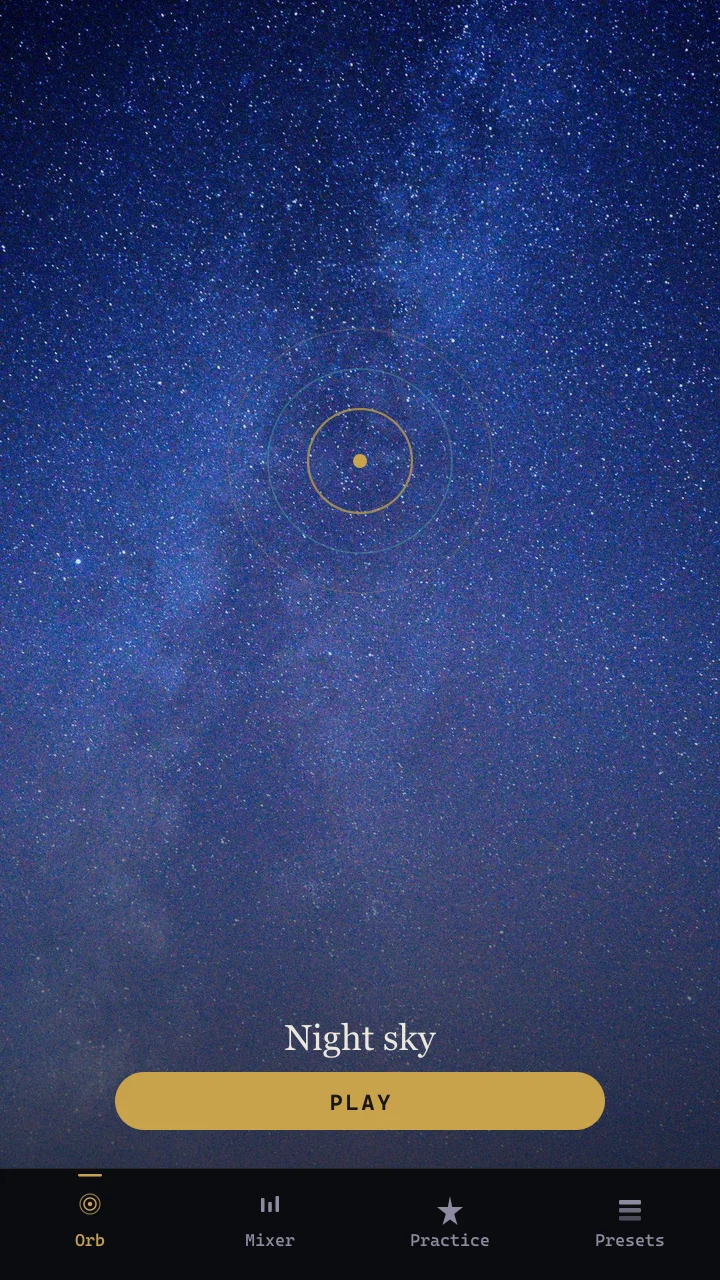
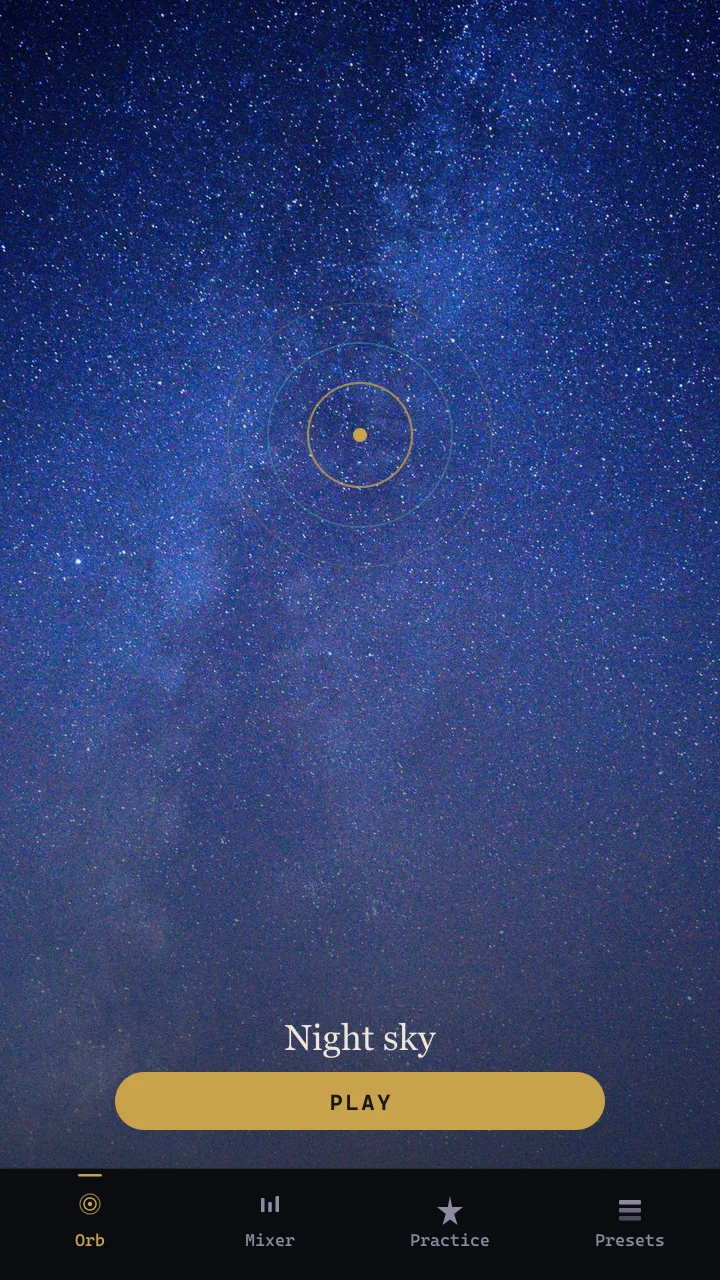
Fill phone mockups edge-to-edge by cropping and covering screens.
Taller phone glass ratio plus slight image scale removes letterboxing.

Changed region(s): [[0.4278, 0.2812, 0.5806, 0.4062], [0.6111, 0.3125, 0.6417, 0.375], [0.3667, 0.3125, 0.3972, 0.3438]]

diff --git a/scripts/stamp-app-tabs.js b/scripts/stamp-app-tabs.js
@@ -56,27 +56,37 @@ async function barPng(active) {
   return sharp(Buffer.from(tabBarSvg(active))).png().toBuffer();
 }
 
+/** Crop empty margins then force exact phone fill. */
+async function fillFrame(inputPath) {
+  const meta = await sharp(inputPath).metadata();
+  const cropTop = Math.round(meta.height * 0.035);
+  const cropBot = Math.round(meta.height * 0.03);
+  const cropSide = Math.round(meta.width * 0.01);
+  return sharp(inputPath)
+    .extract({
+      left: cropSide,
+      top: cropTop,
+      width: meta.width - cropSide * 2,
+      height: meta.height - cropTop - cropBot,
+    })
+    .resize(W, H - TAB_H, { fit: "cover", position: "centre" })
+    .extend({
+      top: 0,
+      bottom: TAB_H,
+      left: 0,
+      right: 0,
+      background: { r: 11, g: 12, b: 16, alpha: 1 },
+    })
+    .toBuffer();
+}
+
 async function stampScreen(srcName, outName, activeTab) {
   const src = path.join(ASSETS, srcName);
+  const filled = await fillFrame(src);
   const bar = await barPng(activeTab);
-  const body = await sharp(src)
-    .resize(W, H, { fit: "cover", position: "centre" })
-    .composite([
-      {
-        input: {
-          create: {
-            width: W,
-            height: TAB_H + 6,
-            channels: 4,
-            background: { r: 11, g: 12, b: 16, alpha: 1 },
-          },
-        },
-        top: H - TAB_H - 6,
-        left: 0,
-      },
-      { input: bar, top: H - TAB_H, left: 0 },
-    ])
-    .webp({ quality: 85 })
+  const body = await sharp(filled)
+    .composite([{ input: bar, top: H - TAB_H, left: 0 }])
+    .webp({ quality: 86 })
     .toBuffer();
   fs.mkdirSync(OUT, { recursive: true });
   fs.mkdirSync(MIRROR, { recursive: true });
@@ -92,16 +102,16 @@ async function stampAmbient(name, activeTab = 0) {
 <svg width="${W}" height="${H}" xmlns="http://www.w3.org/2000/svg">
   <defs>
     <linearGradient id="g" x1="0" y1="0" x2="0" y2="1">
-      <stop offset="0%" stop-color="#08080E" stop-opacity="0.12"/>
-      <stop offset="50%" stop-color="#08080E" stop-opacity="0.08"/>
-      <stop offset="100%" stop-color="#08080E" stop-opacity="0.82"/>
+      <stop offset="0%" stop-color="#08080E" stop-opacity="0.08"/>
+      <stop offset="45%" stop-color="#08080E" stop-opacity="0.05"/>
+      <stop offset="100%" stop-color="#08080E" stop-opacity="0.78"/>
     </linearGradient>
   </defs>
   <rect width="${W}" height="${H}" fill="url(#g)"/>
-  <circle cx="${W / 2}" cy="${Math.round(H * 0.36)}" r="52" fill="none" stroke="#C9A24B" stroke-width="2.2" opacity="0.75"/>
-  <circle cx="${W / 2}" cy="${Math.round(H * 0.36)}" r="92" fill="none" stroke="#4FB3A9" stroke-width="1.6" opacity="0.4"/>
-  <circle cx="${W / 2}" cy="${Math.round(H * 0.36)}" r="132" fill="none" stroke="#C9A24B" stroke-width="1.2" opacity="0.25"/>
-  <circle cx="${W / 2}" cy="${Math.round(H * 0.36)}" r="7" fill="#C9A24B"/>
+  <circle cx="${W / 2}" cy="${Math.round(H * 0.34)}" r="52" fill="none" stroke="#C9A24B" stroke-width="2.2" opacity="0.75"/>
+  <circle cx="${W / 2}" cy="${Math.round(H * 0.34)}" r="92" fill="none" stroke="#4FB3A9" stroke-width="1.6" opacity="0.4"/>
+  <circle cx="${W / 2}" cy="${Math.round(H * 0.34)}" r="132" fill="none" stroke="#C9A24B" stroke-width="1.2" opacity="0.25"/>
+  <circle cx="${W / 2}" cy="${Math.round(H * 0.34)}" r="7" fill="#C9A24B"/>
   <text x="${W / 2}" y="${H - TAB_H - 118}" text-anchor="middle" font-family="Georgia, serif" font-size="36" fill="#EDE7D9">${label}</text>
   <rect x="${Math.round(W * 0.16)}" y="${H - TAB_H - 96}" width="${Math.round(W * 0.68)}" height="58" rx="29" fill="#C9A24B"/>
   <text x="${W / 2}" y="${H - TAB_H - 58}" text-anchor="middle" font-family="Inter, system-ui, sans-serif" font-size="22" font-weight="700" letter-spacing="3" fill="#1A1608">PLAY</text>
@@ -117,7 +127,7 @@ async function stampAmbient(name, activeTab = 0) {
       { input: await sharp(ui).png().toBuffer(), top: 0, left: 0 },
       { input: bar, top: H - TAB_H, left: 0 },
     ])
-    .webp({ quality: 84 })
+    .webp({ quality: 85 })
     .toBuffer();
   fs.writeFileSync(path.join(outAmb, `${name}.webp`), body);
   fs.writeFileSync(path.join(mirrorAmb, `${name}.webp`), body);

diff --git a/public/index.html b/public/index.html
@@ -249,18 +249,22 @@
   .phone-screen {
     position: relative;
     width: 100%;
-    aspect-ratio: 9 / 16;
+    aspect-ratio: 9 / 19.5;
     border-radius: 17px;
     overflow: hidden;
     background: #0B0C10;
     isolation: isolate;
   }
   .phone-screen > img {
+    position: absolute;
+    inset: 0;
     display: block;
     width: 100%;
     height: 100%;
     object-fit: cover;
     object-position: center center;
+    transform: scale(1.04);
+    transform-origin: center center;
   }
   .ambient-slides {
     position: absolute;
@@ -275,6 +279,7 @@
     height: 100%;
     object-fit: cover;
     object-position: center center;
+    transform: scale(1.02);
     opacity: 0;
     z-index: 0;
     transition: opacity 0.8s ease;
